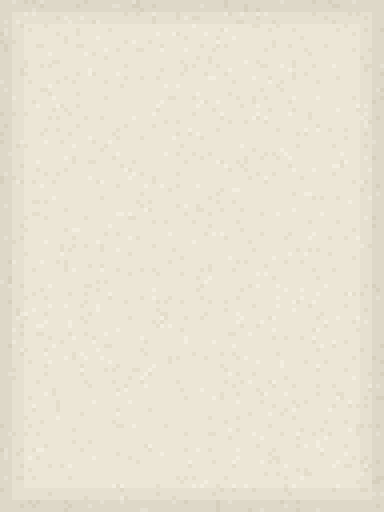
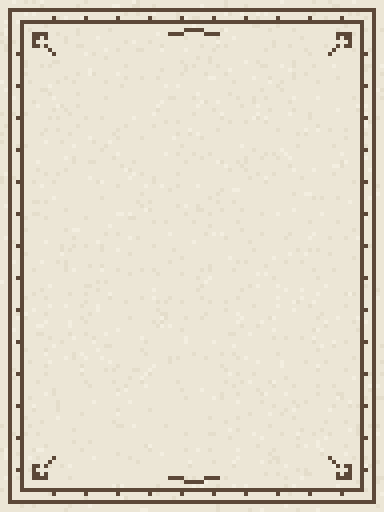
Pixel line-art border on the text cards (D101)

diff --git a/second-spark.html b/second-spark.html
@@ -433,7 +433,7 @@ h1,h2,h3{font-family:var(--f-display);font-weight:400;text-wrap:balance;margin:0
 .ecard .ebody{font-size:12.5px;line-height:1.35;padding:8px 10px 9px;display:flex;flex-direction:column;gap:4px}
 /* frosted text cards (research): parchment face with the title, text and gain icons, a dark dice strip below */
 .fcard{width:190px;display:flex;flex-direction:column;border-radius:7px;overflow:hidden;box-shadow:0 8px 22px rgba(0,0,0,.55);border:2px solid #2a2320}
-.fface{aspect-ratio:3/4;background:var(--card-research) center/100% 100% no-repeat,#ebe6da;color:#1f1b1a;padding:8% 12% 9%;display:flex;flex-direction:column;align-items:center;text-align:center;box-sizing:border-box}
+.fface{aspect-ratio:3/4;background:var(--card-research) center/100% 100% no-repeat,#ebe6da;color:#1f1b1a;padding:11% 13% 10%;display:flex;flex-direction:column;align-items:center;text-align:center;box-sizing:border-box}
 .fface .femblem{display:block;margin:-2% auto 4px}
 .fface .femblem .ico{width:44px;height:44px;filter:drop-shadow(0 1px 0 rgba(255,255,255,.7))}
 .fface .ft{font-family:var(--f-display);font-size:16px;line-height:1.05;text-shadow:0 1px 0 rgba(255,255,255,.6)}
@@ -623,7 +623,7 @@ h1,h2,h3{font-family:var(--f-display);font-weight:400;text-wrap:balance;margin:0
 (() => {
 "use strict";
 // Images from art/ (file stem -> url). Empty when none.
-const IMG = {"cemetery-01": "art/cadavers/cemetery-01.png?v=cdb60a15", "cemetery-02": "art/cadavers/cemetery-02.png?v=825a58a6", "cemetery-03": "art/cadavers/cemetery-03.png?v=59f87587", "cemetery-04": "art/cadavers/cemetery-04.png?v=9ff14061", "cemetery-05": "art/cadavers/cemetery-05.png?v=556550ff", "cemetery-06": "art/cadavers/cemetery-06.png?v=60364b19", "cemetery-07": "art/cadavers/cemetery-07.png?v=06f16daa", "cemetery-08": "art/cadavers/cemetery-08.png?v=c9d83d69", "cemetery-09": "art/cadavers/cemetery-09.png?v=c92961e3", "cemetery-10": "art/cadavers/cemetery-10.png?v=6496a496", "cemetery-11": "art/cadavers/cemetery-11.png?v=30ee4111", "cemetery-12": "art/cadavers/cemetery-12.png?v=092c91ca", "cemetery-13": "art/cadavers/cemetery-13.png?v=fb9b2e10", "cemetery-14": "art/cadavers/cemetery-14.png?v=d3c882b0", "hospital-01": "art/cadavers/hospital-01.png?v=4c5dc110", "hospital-02": "art/cadavers/hospital-02.png?v=063ba9b4", "hospital-03": "art/cadavers/hospital-03.png?v=c3aeaff8", "hospital-04": "art/cadavers/hospital-04.png?v=57ee6c9c", "hospital-05": "art/cadavers/hospital-05.png?v=f631527e", "hospital-06": "art/cadavers/hospital-06.png?v=67bdc78d", "hospital-07": "art/cadavers/hospital-07.png?v=1be8807a", "hospital-08": "art/cadavers/hospital-08.png?v=072b2fcf", "hospital-09": "art/cadavers/hospital-09.png?v=4fc86a4b", "hospital-10": "art/cadavers/hospital-10.png?v=dacc32c7", "hospital-11": "art/cadavers/hospital-11.png?v=e6600095", "hospital-12": "art/cadavers/hospital-12.png?v=d632a31b", "hospital-13": "art/cadavers/hospital-13.png?v=ab10a6ae", "hospital-14": "art/cadavers/hospital-14.png?v=2423bcf6", "morgue-01": "art/cadavers/morgue-01.png?v=576e73da", "morgue-02": "art/cadavers/morgue-02.png?v=5f573863", "morgue-03": "art/cadavers/morgue-03.png?v=905cd2e0", "morgue-04": "art/cadavers/morgue-04.png?v=4ff135d0", "morgue-05": "art/cadavers/morgue-05.png?v=cdbd5bea", "morgue-06": "art/cadavers/morgue-06.png?v=a3e0286a", "morgue-07": "art/cadavers/morgue-07.png?v=184468b7", "morgue-08": "art/cadavers/morgue-08.png?v=5cf67795", "morgue-09": "art/cadavers/morgue-09.png?v=7e60a1b7", "morgue-10": "art/cadavers/morgue-10.png?v=55f16a69", "morgue-11": "art/cadavers/morgue-11.png?v=3f47d90c", "morgue-12": "art/cadavers/morgue-12.png?v=d3fc1982", "morgue-13": "art/cadavers/morgue-13.png?v=71fd4fef", "morgue-14": "art/cadavers/morgue-14.png?v=0ec9192d", "square-01": "art/cadavers/square-01.png?v=28b14c51", "square-02": "art/cadavers/square-02.png?v=18423acf", "square-03": "art/cadavers/square-03.png?v=65621a67", "square-04": "art/cadavers/square-04.png?v=00306c59", "square-05": "art/cadavers/square-05.png?v=69920f7e", "square-06": "art/cadavers/square-06.png?v=0f5b7f96", "square-07": "art/cadavers/square-07.png?v=33eb8966", "square-08": "art/cadavers/square-08.png?v=4e4bb8ba", "square-09": "art/cadavers/square-09.png?v=5f528c84", "square-10": "art/cadavers/square-10.png?v=c6d0f4db", "character-charlatan": "art/characters/character-charlatan.png?v=6b495e80", "character-heiress": "art/characters/character-heiress.png?v=8ee4de04", "character-human": "art/characters/character-human.png?v=e6412d62", "character-psycho": "art/characters/character-psycho.png?v=9a3f452b", "character-surgeon": "art/characters/character-surgeon.png?v=d9440c1b", "character-zoo": "art/characters/character-zoo.png?v=c3c70902", "encounter-01": "art/encounters/encounter-01.png?v=d2abdf96", "encounter-02": "art/encounters/encounter-02.png?v=1badce60", "encounter-03": "art/encounters/encounter-03.png?v=045c47c1", "encounter-04": "art/encounters/encounter-04.png?v=8a8af429", "encounter-05": "art/encounters/encounter-05.png?v=1bdfde31", "encounter-06": "art/encounters/encounter-06.png?v=80b03e4b", "encounter-07": "art/encounters/encounter-07.png?v=54e15358", "encounter-08": "art/encounters/encounter-08.png?v=307f32b4", "encounter-09": "art/encounters/encounter-09.png?v=5fb949bb", "encounter-10": "art/encounters/encounter-10.png?v=dbbd6670", "encounter-11": "art/encounters/encounter-11.png?v=7911164a", "encounter-12": "art/encounters/encounter-12.png?v=dc3ef569", "encounter-13": "art/encounters/encounter-13.png?v=a4c2e845", "encounter-14": "art/encounters/encounter-14.png?v=a3b17961", "encounter-15": "art/encounters/encounter-15.png?v=2f0dad08", "event-01": "art/events/event-01.png?v=3f6861c7", "event-02": "art/events/event-02.png?v=576ea1d5", "event-03": "art/events/event-03.png?v=f34b0859", "event-04": "art/events/event-04.png?v=68454bfd", "event-05": "art/events/event-05.png?v=fdea89ad", "event-06": "art/events/event-06.png?v=9c086485", "event-07": "art/events/event-07.png?v=26086fb8", "event-08": "art/events/event-08.png?v=a29cac8a", "event-09": "art/events/event-09.png?v=4050dabb", "event-10": "art/events/event-10.png?v=8094a985", "event-11": "art/events/event-11.png?v=81cbfba0", "event-12": "art/events/event-12.png?v=7ef5ec94", "event-13": "art/events/event-13.png?v=eebe988d", "event-14": "art/events/event-14.png?v=529e173e", "event-15": "art/events/event-15.png?v=71b875b3", "event-16": "art/events/event-16.png?v=38863461", "event-17": "art/events/event-17.png?v=2cf19d79", "event-18": "art/events/event-18.png?v=df1b3b52", "event-19": "art/events/event-19.png?v=687b6568", "card-humanity-bg": "art/frames/card-humanity-bg.png?v=97984b1f", "card-research-bg": "art/frames/card-research-bg.png?v=6c7a2d47", "card-tall-back": "art/frames/card-tall-back.png?v=e38fbeb1", "card-tall-front": "art/frames/card-tall-front.webp?v=331a7e61", "humanity-07": "art/humanity/humanity-07.png?v=decd96c9", "humanity-10": "art/humanity/humanity-10.png?v=24f2e4ee", "humanity-16": "art/humanity/humanity-16.png?v=a6a885bc", "icon-book": "art/icons/icon-book.png?v=d9bce57e", "icon-coin": "art/icons/icon-coin.png?v=3f427980", "icon-cross": "art/icons/icon-cross.png?v=b899008c", "icon-expertise": "art/icons/icon-expertise.png?v=6b013651", "icon-heart-broken": "art/icons/icon-heart-broken.png?v=84402734", "icon-heart": "art/icons/icon-heart.png?v=64815d16", "icon-police": "art/icons/icon-police.png?v=44adc074", "icon-reputation": "art/icons/icon-reputation.png?v=b90378bb", "lab-blood": "art/locations/lab-blood.png?v=406d0fbc", "lab-charge": "art/locations/lab-charge.png?v=136ea80a", "lab-practice": "art/locations/lab-practice.png?v=5f99ec0c", "lab-repair": "art/locations/lab-repair.png?v=5c74baf0", "location-academy": "art/locations/location-academy.png?v=a8ab6a99", "location-alley": "art/locations/location-alley.png?v=ce174676", "location-cemetery": "art/locations/location-cemetery.png?v=e5942733", "location-church": "art/locations/location-church.png?v=d7d5f306", "location-docks": "art/locations/location-docks.png?v=2e1b4684", "location-first": "art/locations/location-first.png?v=67dd7d9a", "location-hospital": "art/locations/location-hospital.png?v=93424acc", "location-market": "art/locations/location-market.png?v=bf796516", "location-morgue": "art/locations/location-morgue.png?v=c94e5075", "location-odeon": "art/locations/location-odeon.png?v=f5669ec7", "location-slaughter": "art/locations/location-slaughter.png?v=947dcf70", "location-square": "art/locations/location-square.png?v=bf9eae6b", "research-01": "art/research/research-01.png?v=5d1cca3d", "research-02": "art/research/research-02.png?v=9eeb1c9c", "research-03": "art/research/research-03.png?v=d2f90ded", "research-04": "art/research/research-04.png?v=98701365", "research-05": "art/research/research-05.png?v=08a10086", "research-06": "art/research/research-06.png?v=68a672c2", "research-07": "art/research/research-07.png?v=b7e1da94", "research-08": "art/research/research-08.png?v=bbda7a26", "research-09": "art/research/research-09.png?v=7e3fdd74", "research-10": "art/research/research-10.png?v=efc5f840", "research-11": "art/research/research-11.png?v=b2feb7bc", "research-12": "art/research/research-12.png?v=478f7999", "research-13": "art/research/research-13.png?v=62a7eb24", "research-14": "art/research/research-14.png?v=5f8794c2", "research-15": "art/research/research-15.png?v=c9ddc049", "research-16": "art/research/research-16.png?v=86bee955", "scoundrel-01": "art/scoundrels/scoundrel-01.png?v=f094ace8", "scoundrel-02": "art/scoundrels/scoundrel-02.png?v=59b22aa3", "scoundrel-03": "art/scoundrels/scoundrel-03.png?v=71552af2", "scoundrel-04": "art/scoundrels/scoundrel-04.png?v=9b66d01c", "scoundrel-05": "art/scoundrels/scoundrel-05.png?v=3689349a", "scoundrel-06": "art/scoundrels/scoundrel-06.png?v=74255193", "scoundrel-07": "art/scoundrels/scoundrel-07.png?v=9ebd58d1", "scoundrel-08": "art/scoundrels/scoundrel-08.png?v=ad397cc2", "scoundrel-09": "art/scoundrels/scoundrel-09.png?v=7a7ee517", "scoundrel-10": "art/scoundrels/scoundrel-10.png?v=c95952da", "scoundrel-11": "art/scoundrels/scoundrel-11.png?v=a9bb7b3e", "scoundrel-12": "art/scoundrels/scoundrel-12.png?v=da35b762", "scoundrel-13": "art/scoundrels/scoundrel-13.png?v=838e2c75", "scoundrel-14": "art/scoundrels/scoundrel-14.png?v=6ddb4278", "scoundrel-15": "art/scoundrels/scoundrel-15.png?v=5f6af6c1", "scoundrel-16": "art/scoundrels/scoundrel-16.png?v=f3cdeb0a", "bg-wall": "art/ui/bg-wall.jpg?v=4a00b8d8", "board": "art/ui/board.jpg?v=05c55f00", "title": "art/ui/title.webp?v=6e0ab846"};
+const IMG = {"cemetery-01": "art/cadavers/cemetery-01.png?v=cdb60a15", "cemetery-02": "art/cadavers/cemetery-02.png?v=825a58a6", "cemetery-03": "art/cadavers/cemetery-03.png?v=59f87587", "cemetery-04": "art/cadavers/cemetery-04.png?v=9ff14061", "cemetery-05": "art/cadavers/cemetery-05.png?v=556550ff", "cemetery-06": "art/cadavers/cemetery-06.png?v=60364b19", "cemetery-07": "art/cadavers/cemetery-07.png?v=06f16daa", "cemetery-08": "art/cadavers/cemetery-08.png?v=c9d83d69", "cemetery-09": "art/cadavers/cemetery-09.png?v=c92961e3", "cemetery-10": "art/cadavers/cemetery-10.png?v=6496a496", "cemetery-11": "art/cadavers/cemetery-11.png?v=30ee4111", "cemetery-12": "art/cadavers/cemetery-12.png?v=092c91ca", "cemetery-13": "art/cadavers/cemetery-13.png?v=fb9b2e10", "cemetery-14": "art/cadavers/cemetery-14.png?v=d3c882b0", "hospital-01": "art/cadavers/hospital-01.png?v=4c5dc110", "hospital-02": "art/cadavers/hospital-02.png?v=063ba9b4", "hospital-03": "art/cadavers/hospital-03.png?v=c3aeaff8", "hospital-04": "art/cadavers/hospital-04.png?v=57ee6c9c", "hospital-05": "art/cadavers/hospital-05.png?v=f631527e", "hospital-06": "art/cadavers/hospital-06.png?v=67bdc78d", "hospital-07": "art/cadavers/hospital-07.png?v=1be8807a", "hospital-08": "art/cadavers/hospital-08.png?v=072b2fcf", "hospital-09": "art/cadavers/hospital-09.png?v=4fc86a4b", "hospital-10": "art/cadavers/hospital-10.png?v=dacc32c7", "hospital-11": "art/cadavers/hospital-11.png?v=e6600095", "hospital-12": "art/cadavers/hospital-12.png?v=d632a31b", "hospital-13": "art/cadavers/hospital-13.png?v=ab10a6ae", "hospital-14": "art/cadavers/hospital-14.png?v=2423bcf6", "morgue-01": "art/cadavers/morgue-01.png?v=576e73da", "morgue-02": "art/cadavers/morgue-02.png?v=5f573863", "morgue-03": "art/cadavers/morgue-03.png?v=905cd2e0", "morgue-04": "art/cadavers/morgue-04.png?v=4ff135d0", "morgue-05": "art/cadavers/morgue-05.png?v=cdbd5bea", "morgue-06": "art/cadavers/morgue-06.png?v=a3e0286a", "morgue-07": "art/cadavers/morgue-07.png?v=184468b7", "morgue-08": "art/cadavers/morgue-08.png?v=5cf67795", "morgue-09": "art/cadavers/morgue-09.png?v=7e60a1b7", "morgue-10": "art/cadavers/morgue-10.png?v=55f16a69", "morgue-11": "art/cadavers/morgue-11.png?v=3f47d90c", "morgue-12": "art/cadavers/morgue-12.png?v=d3fc1982", "morgue-13": "art/cadavers/morgue-13.png?v=71fd4fef", "morgue-14": "art/cadavers/morgue-14.png?v=0ec9192d", "square-01": "art/cadavers/square-01.png?v=28b14c51", "square-02": "art/cadavers/square-02.png?v=18423acf", "square-03": "art/cadavers/square-03.png?v=65621a67", "square-04": "art/cadavers/square-04.png?v=00306c59", "square-05": "art/cadavers/square-05.png?v=69920f7e", "square-06": "art/cadavers/square-06.png?v=0f5b7f96", "square-07": "art/cadavers/square-07.png?v=33eb8966", "square-08": "art/cadavers/square-08.png?v=4e4bb8ba", "square-09": "art/cadavers/square-09.png?v=5f528c84", "square-10": "art/cadavers/square-10.png?v=c6d0f4db", "character-charlatan": "art/characters/character-charlatan.png?v=6b495e80", "character-heiress": "art/characters/character-heiress.png?v=8ee4de04", "character-human": "art/characters/character-human.png?v=e6412d62", "character-psycho": "art/characters/character-psycho.png?v=9a3f452b", "character-surgeon": "art/characters/character-surgeon.png?v=d9440c1b", "character-zoo": "art/characters/character-zoo.png?v=c3c70902", "encounter-01": "art/encounters/encounter-01.png?v=d2abdf96", "encounter-02": "art/encounters/encounter-02.png?v=1badce60", "encounter-03": "art/encounters/encounter-03.png?v=045c47c1", "encounter-04": "art/encounters/encounter-04.png?v=8a8af429", "encounter-05": "art/encounters/encounter-05.png?v=1bdfde31", "encounter-06": "art/encounters/encounter-06.png?v=80b03e4b", "encounter-07": "art/encounters/encounter-07.png?v=54e15358", "encounter-08": "art/encounters/encounter-08.png?v=307f32b4", "encounter-09": "art/encounters/encounter-09.png?v=5fb949bb", "encounter-10": "art/encounters/encounter-10.png?v=dbbd6670", "encounter-11": "art/encounters/encounter-11.png?v=7911164a", "encounter-12": "art/encounters/encounter-12.png?v=dc3ef569", "encounter-13": "art/encounters/encounter-13.png?v=a4c2e845", "encounter-14": "art/encounters/encounter-14.png?v=a3b17961", "encounter-15": "art/encounters/encounter-15.png?v=2f0dad08", "event-01": "art/events/event-01.png?v=3f6861c7", "event-02": "art/events/event-02.png?v=576ea1d5", "event-03": "art/events/event-03.png?v=f34b0859", "event-04": "art/events/event-04.png?v=68454bfd", "event-05": "art/events/event-05.png?v=fdea89ad", "event-06": "art/events/event-06.png?v=9c086485", "event-07": "art/events/event-07.png?v=26086fb8", "event-08": "art/events/event-08.png?v=a29cac8a", "event-09": "art/events/event-09.png?v=4050dabb", "event-10": "art/events/event-10.png?v=8094a985", "event-11": "art/events/event-11.png?v=81cbfba0", "event-12": "art/events/event-12.png?v=7ef5ec94", "event-13": "art/events/event-13.png?v=eebe988d", "event-14": "art/events/event-14.png?v=529e173e", "event-15": "art/events/event-15.png?v=71b875b3", "event-16": "art/events/event-16.png?v=38863461", "event-17": "art/events/event-17.png?v=2cf19d79", "event-18": "art/events/event-18.png?v=df1b3b52", "event-19": "art/events/event-19.png?v=687b6568", "card-humanity-bg": "art/frames/card-humanity-bg.png?v=ff61e6fd", "card-research-bg": "art/frames/card-research-bg.png?v=793ae571", "card-tall-back": "art/frames/card-tall-back.png?v=e38fbeb1", "card-tall-front": "art/frames/card-tall-front.webp?v=331a7e61", "humanity-07": "art/humanity/humanity-07.png?v=decd96c9", "humanity-10": "art/humanity/humanity-10.png?v=24f2e4ee", "humanity-16": "art/humanity/humanity-16.png?v=a6a885bc", "icon-book": "art/icons/icon-book.png?v=d9bce57e", "icon-coin": "art/icons/icon-coin.png?v=3f427980", "icon-cross": "art/icons/icon-cross.png?v=b899008c", "icon-expertise": "art/icons/icon-expertise.png?v=6b013651", "icon-heart-broken": "art/icons/icon-heart-broken.png?v=84402734", "icon-heart": "art/icons/icon-heart.png?v=64815d16", "icon-police": "art/icons/icon-police.png?v=44adc074", "icon-reputation": "art/icons/icon-reputation.png?v=b90378bb", "lab-blood": "art/locations/lab-blood.png?v=406d0fbc", "lab-charge": "art/locations/lab-charge.png?v=136ea80a", "lab-practice": "art/locations/lab-practice.png?v=5f99ec0c", "lab-repair": "art/locations/lab-repair.png?v=5c74baf0", "location-academy": "art/locations/location-academy.png?v=a8ab6a99", "location-alley": "art/locations/location-alley.png?v=ce174676", "location-cemetery": "art/locations/location-cemetery.png?v=e5942733", "location-church": "art/locations/location-church.png?v=d7d5f306", "location-docks": "art/locations/location-docks.png?v=2e1b4684", "location-first": "art/locations/location-first.png?v=67dd7d9a", "location-hospital": "art/locations/location-hospital.png?v=93424acc", "location-market": "art/locations/location-market.png?v=bf796516", "location-morgue": "art/locations/location-morgue.png?v=c94e5075", "location-odeon": "art/locations/location-odeon.png?v=f5669ec7", "location-slaughter": "art/locations/location-slaughter.png?v=947dcf70", "location-square": "art/locations/location-square.png?v=bf9eae6b", "research-01": "art/research/research-01.png?v=5d1cca3d", "research-02": "art/research/research-02.png?v=9eeb1c9c", "research-03": "art/research/research-03.png?v=d2f90ded", "research-04": "art/research/research-04.png?v=98701365", "research-05": "art/research/research-05.png?v=08a10086", "research-06": "art/research/research-06.png?v=68a672c2", "research-07": "art/research/research-07.png?v=b7e1da94", "research-08": "art/research/research-08.png?v=bbda7a26", "research-09": "art/research/research-09.png?v=7e3fdd74", "research-10": "art/research/research-10.png?v=efc5f840", "research-11": "art/research/research-11.png?v=b2feb7bc", "research-12": "art/research/research-12.png?v=478f7999", "research-13": "art/research/research-13.png?v=62a7eb24", "research-14": "art/research/research-14.png?v=5f8794c2", "research-15": "art/research/research-15.png?v=c9ddc049", "research-16": "art/research/research-16.png?v=86bee955", "scoundrel-01": "art/scoundrels/scoundrel-01.png?v=f094ace8", "scoundrel-02": "art/scoundrels/scoundrel-02.png?v=59b22aa3", "scoundrel-03": "art/scoundrels/scoundrel-03.png?v=71552af2", "scoundrel-04": "art/scoundrels/scoundrel-04.png?v=9b66d01c", "scoundrel-05": "art/scoundrels/scoundrel-05.png?v=3689349a", "scoundrel-06": "art/scoundrels/scoundrel-06.png?v=74255193", "scoundrel-07": "art/scoundrels/scoundrel-07.png?v=9ebd58d1", "scoundrel-08": "art/scoundrels/scoundrel-08.png?v=ad397cc2", "scoundrel-09": "art/scoundrels/scoundrel-09.png?v=7a7ee517", "scoundrel-10": "art/scoundrels/scoundrel-10.png?v=c95952da", "scoundrel-11": "art/scoundrels/scoundrel-11.png?v=a9bb7b3e", "scoundrel-12": "art/scoundrels/scoundrel-12.png?v=da35b762", "scoundrel-13": "art/scoundrels/scoundrel-13.png?v=838e2c75", "scoundrel-14": "art/scoundrels/scoundrel-14.png?v=6ddb4278", "scoundrel-15": "art/scoundrels/scoundrel-15.png?v=5f6af6c1", "scoundrel-16": "art/scoundrels/scoundrel-16.png?v=f3cdeb0a", "bg-wall": "art/ui/bg-wall.jpg?v=4a00b8d8", "board": "art/ui/board.jpg?v=05c55f00", "title": "art/ui/title.webp?v=6e0ab846"};
 /* =========================================================
    CARD DATA
    Numbers and effects follow the physical game's cards (read from the
